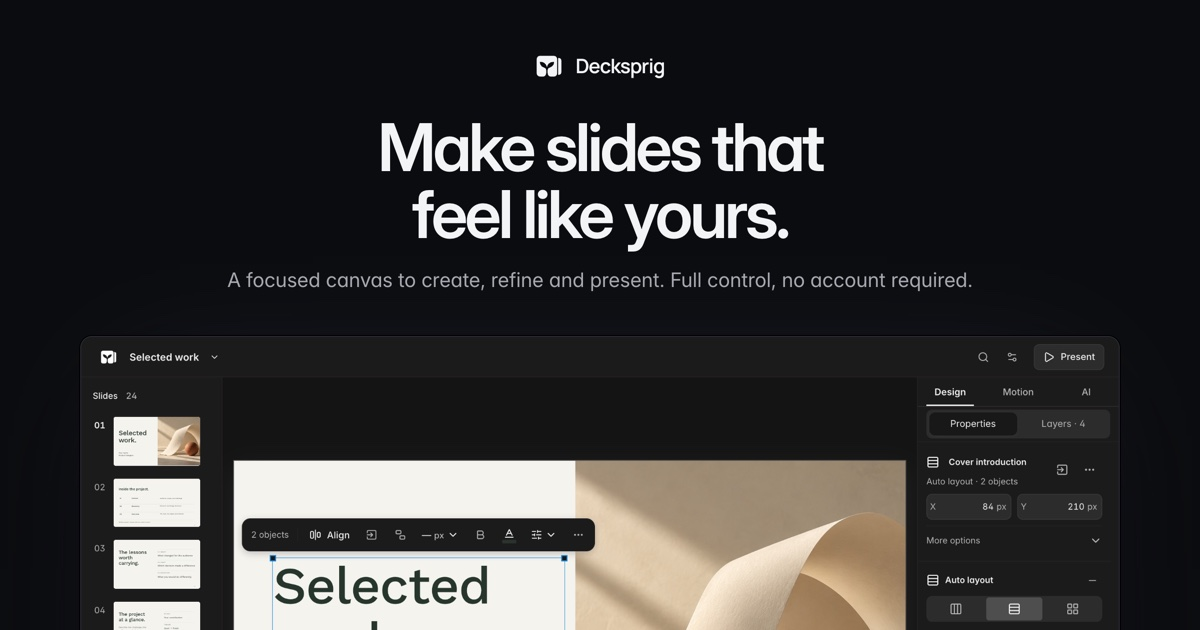
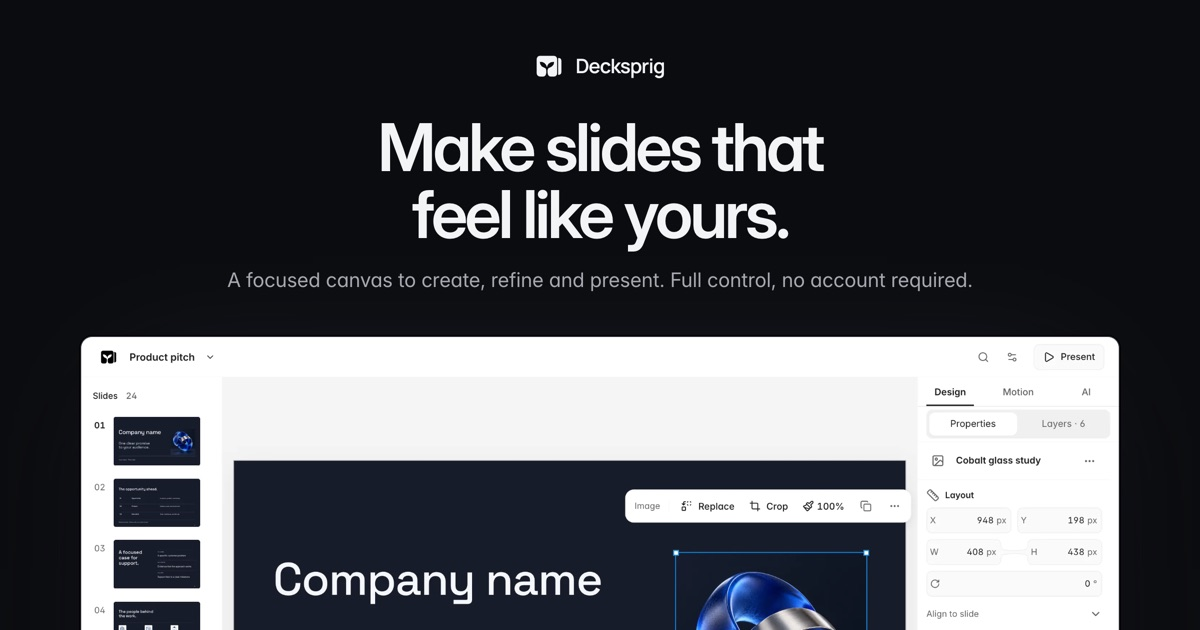
Website: open templates directly, art-directed hero and feature close-ups
- Use template opens /app?template=<id> as a new document; Download is secondary
- Hero focuses on one slide with a compact selection toolbar; dedicated mobile crop
- Workspace shows three close-ups: canvas editing, auto layout, editable charts
- Title, description and share card follow the new positioning

diff --git a/public/website/index.html b/public/website/index.html
@@ -3,14 +3,14 @@
 <head>
   <meta charset="utf-8">
   <meta name="viewport" content="width=device-width,initial-scale=1">
-  <title>Decksprig — Give your ideas a clearer story</title>
-  <meta name="description" content="A browser slide editor for portfolios, project reviews and design proposals. Shape your story, review AI changes, and present with confidence.">
+  <title>Decksprig — Make slides that feel like yours</title>
+  <meta name="description" content="Make slides that feel like yours. A focused browser editor to create, refine and present, with complete editable templates and no account required.">
   <meta name="theme-color" content="#0b0c0f">
   <script src="appearance.js?v=20261105-graphite"></script>
   <link rel="canonical" href="https://decksprig.kens-toolbox.com/">
   <meta property="og:type" content="website">
-  <meta property="og:title" content="Decksprig — Give your ideas a clearer story">
-  <meta property="og:description" content="A browser slide editor for portfolios, project reviews and design proposals. Start without an account; export an editable deck when you’re ready.">
+  <meta property="og:title" content="Decksprig — Make slides that feel like yours">
+  <meta property="og:description" content="Make slides that feel like yours. A focused browser editor to create, refine and present, with complete editable templates and no account required.">
   <meta property="og:url" content="https://decksprig.kens-toolbox.com/">
   <meta property="og:image" content="https://decksprig.kens-toolbox.com/assets/social.jpg?v=20261105-graphite">
   <meta name="twitter:card" content="summary_large_image">
@@ -65,34 +65,30 @@
         <ul class="hero-facts entrance" aria-label="At a glance"><li>Open source</li><li>No account</li><li>Editable export</li></ul>
       </div>
       <figure class="hero-stage entrance">
-        <div class="stage-window"><picture><source type="image/webp" srcset="assets/hero-editor-960.webp?v=20261105-graphite 960w, assets/hero-editor.webp?v=20261105-graphite 1440w, assets/hero-editor-2x.webp?v=20261105-graphite 2880w" sizes="(max-width: 760px) calc((100vw - 32px) * 1.6), (min-width: 1300px) 1200px, calc(100vw - 2 * clamp(20px, 4vw, 56px))"><img src="assets/hero-editor.jpg?v=20261105-graphite" srcset="assets/hero-editor.jpg?v=20261105-graphite 1440w, assets/hero-editor-2x.jpg?v=20261105-graphite 2880w" sizes="(max-width: 760px) calc((100vw - 32px) * 1.6), (min-width: 1300px) 1200px, calc(100vw - 2 * clamp(20px, 4vw, 56px))" width="1440" height="900" fetchpriority="high" alt="The Decksprig editor with a cover slide selected. The canvas shows a contextual toolbar; the inspector shows auto layout, size and spacing controls."></picture></div>
+        <div class="stage-window"><picture><source media="(max-width: 760px)" type="image/webp" srcset="assets/hero-mobile-800.webp?v=20261105-graphite 800w, assets/hero-mobile.webp?v=20261105-graphite 1200w" sizes="calc(100vw - 32px)"><source media="(max-width: 760px)" srcset="assets/hero-mobile.jpg?v=20261105-graphite 1200w" sizes="calc(100vw - 32px)"><source type="image/webp" srcset="assets/hero-editor-960.webp?v=20261105-graphite 960w, assets/hero-editor.webp?v=20261105-graphite 1440w, assets/hero-editor-2x.webp?v=20261105-graphite 2880w" sizes="(min-width: 1300px) 1200px, calc(100vw - 2 * clamp(20px, 4vw, 56px))"><img src="assets/hero-editor.jpg?v=20261105-graphite" srcset="assets/hero-editor.jpg?v=20261105-graphite 1440w, assets/hero-editor-2x.jpg?v=20261105-graphite 2880w" sizes="(min-width: 1300px) 1200px, calc(100vw - 2 * clamp(20px, 4vw, 56px))" width="1440" height="900" fetchpriority="high" alt="The Decksprig editor with a product pitch cover open. An image is selected, with a compact image toolbar on the canvas and its layout and image settings in the inspector."></picture></div>
       </figure>
     </section>
 
     <section class="section workspace reveal" id="workspace" aria-labelledby="workspace-title">
       <div class="section-heading"><div><p class="eyebrow"><span>01</span>The workspace</p><h2 id="workspace-title">All the tools.<br><span class="muted">None of the noise.</span></h2></div><p>Edit directly. Shape your layouts. Keep every detail under your control.</p></div>
-      <figure class="product-window">
-        <picture><source data-dark-shot media="(prefers-color-scheme: dark)" type="image/webp" srcset="assets/workspace-dark-960.webp?v=20261105-graphite 960w, assets/workspace-dark.webp?v=20261105-graphite 1440w, assets/workspace-dark-2x.webp?v=20261105-graphite 2880w" sizes="(max-width: 760px) calc((100vw - 40px) * 1.2), (min-width: 1300px) 1200px, calc(100vw - 2 * clamp(20px, 4vw, 56px))"><source data-dark-shot media="(prefers-color-scheme: dark)" srcset="assets/workspace-dark.jpg?v=20261105-graphite 1440w, assets/workspace-dark-2x.jpg?v=20261105-graphite 2880w" sizes="(max-width: 760px) calc((100vw - 40px) * 1.2), (min-width: 1300px) 1200px, calc(100vw - 2 * clamp(20px, 4vw, 56px))"><source type="image/webp" srcset="assets/workspace-light-960.webp?v=20261105-graphite 960w, assets/workspace-light.webp?v=20261105-graphite 1440w, assets/workspace-light-2x.webp?v=20261105-graphite 2880w" sizes="(max-width: 760px) calc((100vw - 40px) * 1.2), (min-width: 1300px) 1200px, calc(100vw - 2 * clamp(20px, 4vw, 56px))"><img id="editor-shot" src="assets/workspace-light.jpg?v=20261105-graphite" srcset="assets/workspace-light.jpg?v=20261105-graphite 1440w, assets/workspace-light-2x.jpg?v=20261105-graphite 2880w" sizes="(max-width: 760px) calc((100vw - 40px) * 1.2), (min-width: 1300px) 1200px, calc(100vw - 2 * clamp(20px, 4vw, 56px))" width="1440" height="900" loading="lazy" alt="A chart selected in the Decksprig editor, with layout, chart style, data and appearance controls in the inspector."></picture>
-      </figure>
-      <div class="capabilities">
-        <article><h3>Edit on the canvas</h3><p>Select, type and arrange in place. Tools appear for what you select, and stay out of the way otherwise.</p></article>
-        <article><h3>Layouts that hold</h3><p>Auto layout keeps spacing, alignment and text limits consistent as your content changes.</p></article>
-        <article><h3>Data that stays editable</h3><p>Charts and tables keep their values, labels and styles, all adjustable in one panel.</p></article>
-        <article><h3>Ready to present</h3><p>Pace your reveals, add transitions and present full screen, right from the browser.</p></article>
+      <div class="features">
+        <article class="feature"><figure><picture><source type="image/webp" srcset="assets/feature-text-600.webp?v=20261105-graphite 600w, assets/feature-text.webp?v=20261105-graphite 900w" sizes="(min-width: 1001px) 384px, (min-width: 761px) calc((100vw - 2 * clamp(20px, 4vw, 56px) - 48px) / 3), calc(100vw - 40px)"><img src="assets/feature-text.jpg?v=20261105-graphite" width="900" height="675" loading="lazy" alt="A slide heading being edited in place, with font size, color and Done controls in a toolbar above it."></picture></figure><h3>Edit on the canvas</h3><p>Select, type and arrange in place. A compact toolbar appears for what you edit, and steps aside when you are done.</p></article>
+        <article class="feature"><figure><picture><source type="image/webp" srcset="assets/feature-layout-600.webp?v=20261105-graphite 600w, assets/feature-layout.webp?v=20261105-graphite 900w" sizes="(min-width: 1001px) 384px, (min-width: 761px) calc((100vw - 2 * clamp(20px, 4vw, 56px) - 48px) / 3), calc(100vw - 40px)"><img src="assets/feature-layout.jpg?v=20261105-graphite" width="900" height="675" loading="lazy" alt="Auto layout settings in the inspector: direction, alignment, distribution and hug or fixed sizing."></picture></figure><h3>Layouts that hold</h3><p>Auto layout keeps spacing, alignment and text limits consistent as your content changes.</p></article>
+        <article class="feature"><figure><picture><source type="image/webp" srcset="assets/feature-chart-600.webp?v=20261105-graphite 600w, assets/feature-chart.webp?v=20261105-graphite 900w" sizes="(min-width: 1001px) 384px, (min-width: 761px) calc((100vw - 2 * clamp(20px, 4vw, 56px) - 48px) / 3), calc(100vw - 40px)"><img src="assets/feature-chart.jpg?v=20261105-graphite" width="900" height="675" loading="lazy" alt="A selected area chart beside its inspector, with Clean, Report, Bold and Minimal styles and Data and Customize controls."></picture></figure><h3>Data that stays editable</h3><p>Charts keep their values, labels and styles. Switch a style or open the data in one panel.</p></article>
       </div>
     </section>
 
     <section class="section templates reveal" id="templates" aria-labelledby="templates-title">
       <div class="section-heading"><div><p class="eyebrow"><span>02</span>Templates</p><h2 id="templates-title">Six complete decks.<br><span class="muted">Start from any of them.</span></h2></div><p>Each has 24 slides, with text, charts, tables and layouts you can change.</p></div>
       <ul class="template-grid">
-        <li class="template-card"><figure><picture><source type="image/webp" srcset="assets/portfolio-640.webp?v=20261105-graphite 640w, assets/portfolio.webp?v=20261105-graphite 1044w" sizes="(min-width: 1001px) 384px, (min-width: 761px) calc((100vw - 2 * clamp(20px, 4vw, 56px) - 20px) / 2), calc(100vw - 2 * clamp(20px, 4vw, 56px))"><img src="assets/portfolio.jpg?v=20261105-graphite" width="1044" height="588" loading="lazy" alt="Portfolio cover: “Selected work.” beside a paper sculpture photograph."></picture></figure><div class="template-meta"><div><h3>Portfolio</h3><p>Editorial · Context, research, craft and reflection</p></div><a class="template-download" href="assets/editorial.deck.json?v=20261105-graphite" download aria-label="Download the Portfolio starter deck"><svg class="ic" aria-hidden="true"><use href="#download"/></svg><span>Starter deck</span></a></div></li>
-        <li class="template-card"><figure><picture><source type="image/webp" srcset="assets/review-640.webp?v=20261105-graphite 640w, assets/review.webp?v=20261105-graphite 1044w" sizes="(min-width: 1001px) 384px, (min-width: 761px) calc((100vw - 2 * clamp(20px, 4vw, 56px) - 20px) / 2), calc(100vw - 2 * clamp(20px, 4vw, 56px))"><img src="assets/review.jpg?v=20261105-graphite" width="1044" height="588" loading="lazy" alt="Project review cover with a line illustration of two people reviewing work."></picture></figure><div class="template-meta"><div><h3>Project review</h3><p>Studio · Evidence, options and decisions</p></div><a class="template-download" href="assets/studio.deck.json?v=20261105-graphite" download aria-label="Download the Project review starter deck"><svg class="ic" aria-hidden="true"><use href="#download"/></svg><span>Starter deck</span></a></div></li>
-        <li class="template-card"><figure><picture><source type="image/webp" srcset="assets/minimal-640.webp?v=20261105-graphite 640w, assets/minimal.webp?v=20261105-graphite 1044w" sizes="(min-width: 1001px) 384px, (min-width: 761px) calc((100vw - 2 * clamp(20px, 4vw, 56px) - 20px) / 2), calc(100vw - 2 * clamp(20px, 4vw, 56px))"><img src="assets/minimal.jpg?v=20261105-graphite" width="1044" height="588" loading="lazy" alt="Minimalist cover: “A clear idea.” with a black ring sculpture."></picture></figure><div class="template-meta"><div><h3>Minimalist</h3><p>Minimalist · Space, structure and only what matters</p></div><a class="template-download" href="assets/minimalist.deck.json?v=20261105-graphite" download aria-label="Download the Minimalist starter deck"><svg class="ic" aria-hidden="true"><use href="#download"/></svg><span>Starter deck</span></a></div></li>
-        <li class="template-card"><figure><picture><source type="image/webp" srcset="assets/proposal-640.webp?v=20261105-graphite 640w, assets/proposal.webp?v=20261105-graphite 1044w" sizes="(min-width: 1001px) 384px, (min-width: 761px) calc((100vw - 2 * clamp(20px, 4vw, 56px) - 20px) / 2), calc(100vw - 2 * clamp(20px, 4vw, 56px))"><img src="assets/proposal.jpg?v=20261105-graphite" width="1044" height="588" loading="lazy" alt="Design proposal cover: “A clear point of view.” with a material study photograph."></picture></figure><div class="template-meta"><div><h3>Design proposal</h3><p>Monograph · Direction, scope, rationale and delivery</p></div><a class="template-download" href="assets/monograph.deck.json?v=20261105-graphite" download aria-label="Download the Design proposal starter deck"><svg class="ic" aria-hidden="true"><use href="#download"/></svg><span>Starter deck</span></a></div></li>
-        <li class="template-card"><figure><picture><source type="image/webp" srcset="assets/pitch-640.webp?v=20261105-graphite 640w, assets/pitch.webp?v=20261105-graphite 1044w" sizes="(min-width: 1001px) 384px, (min-width: 761px) calc((100vw - 2 * clamp(20px, 4vw, 56px) - 20px) / 2), calc(100vw - 2 * clamp(20px, 4vw, 56px))"><img src="assets/pitch.jpg?v=20261105-graphite" width="1044" height="588" loading="lazy" alt="Product pitch cover on a dark canvas with cobalt glass artwork."></picture></figure><div class="template-meta"><div><h3>Product pitch</h3><p>Signal · Problem, product, traction and the ask</p></div><a class="template-download" href="assets/signal.deck.json?v=20261105-graphite" download aria-label="Download the Product pitch starter deck"><svg class="ic" aria-hidden="true"><use href="#download"/></svg><span>Starter deck</span></a></div></li>
-        <li class="template-card"><figure><picture><source type="image/webp" srcset="assets/report-640.webp?v=20261105-graphite 640w, assets/report.webp?v=20261105-graphite 1044w" sizes="(min-width: 1001px) 384px, (min-width: 761px) calc((100vw - 2 * clamp(20px, 4vw, 56px) - 20px) / 2), calc(100vw - 2 * clamp(20px, 4vw, 56px))"><img src="assets/report.jpg?v=20261105-graphite" width="1044" height="588" loading="lazy" alt="Data report cover: “Quarterly report.” with an open notebook photograph."></picture></figure><div class="template-meta"><div><h3>Data report</h3><p>Ledger · Results, comparisons and priorities</p></div><a class="template-download" href="assets/ledger.deck.json?v=20261105-graphite" download aria-label="Download the Data report starter deck"><svg class="ic" aria-hidden="true"><use href="#download"/></svg><span>Starter deck</span></a></div></li>
+        <li class="template-card"><figure><picture><source type="image/webp" srcset="assets/portfolio-640.webp?v=20261105-graphite 640w, assets/portfolio.webp?v=20261105-graphite 1044w" sizes="(min-width: 1001px) 384px, (min-width: 761px) calc((100vw - 2 * clamp(20px, 4vw, 56px) - 20px) / 2), calc(100vw - 2 * clamp(20px, 4vw, 56px))"><img src="assets/portfolio.jpg?v=20261105-graphite" width="1044" height="588" loading="lazy" alt="Portfolio cover: “Selected work.” beside a paper sculpture photograph."></picture></figure><div class="template-meta"><div><h3>Portfolio</h3><p>Editorial · Context, research, craft and reflection</p></div></div><div class="template-actions"><a class="template-use" href="/app?template=portfolio" target="_blank" rel="noopener noreferrer" aria-label="Use template: Portfolio">Use template<svg class="ic" aria-hidden="true"><use href="#arrow"/></svg></a><a class="template-download" href="assets/editorial.deck.json?v=20261105-graphite" download aria-label="Download the Portfolio starter deck"><svg class="ic" aria-hidden="true"><use href="#download"/></svg>Download</a></div></li>
+        <li class="template-card"><figure><picture><source type="image/webp" srcset="assets/review-640.webp?v=20261105-graphite 640w, assets/review.webp?v=20261105-graphite 1044w" sizes="(min-width: 1001px) 384px, (min-width: 761px) calc((100vw - 2 * clamp(20px, 4vw, 56px) - 20px) / 2), calc(100vw - 2 * clamp(20px, 4vw, 56px))"><img src="assets/review.jpg?v=20261105-graphite" width="1044" height="588" loading="lazy" alt="Project review cover with a line illustration of two people reviewing work."></picture></figure><div class="template-meta"><div><h3>Project review</h3><p>Studio · Evidence, options and decisions</p></div></div><div class="template-actions"><a class="template-use" href="/app?template=review" target="_blank" rel="noopener noreferrer" aria-label="Use template: Project review">Use template<svg class="ic" aria-hidden="true"><use href="#arrow"/></svg></a><a class="template-download" href="assets/studio.deck.json?v=20261105-graphite" download aria-label="Download the Project review starter deck"><svg class="ic" aria-hidden="true"><use href="#download"/></svg>Download</a></div></li>
+        <li class="template-card"><figure><picture><source type="image/webp" srcset="assets/minimal-640.webp?v=20261105-graphite 640w, assets/minimal.webp?v=20261105-graphite 1044w" sizes="(min-width: 1001px) 384px, (min-width: 761px) calc((100vw - 2 * clamp(20px, 4vw, 56px) - 20px) / 2), calc(100vw - 2 * clamp(20px, 4vw, 56px))"><img src="assets/minimal.jpg?v=20261105-graphite" width="1044" height="588" loading="lazy" alt="Minimalist cover: “A clear idea.” with a black ring sculpture."></picture></figure><div class="template-meta"><div><h3>Minimalist</h3><p>Minimalist · Space, structure and only what matters</p></div></div><div class="template-actions"><a class="template-use" href="/app?template=minimal" target="_blank" rel="noopener noreferrer" aria-label="Use template: Minimalist">Use template<svg class="ic" aria-hidden="true"><use href="#arrow"/></svg></a><a class="template-download" href="assets/minimalist.deck.json?v=20261105-graphite" download aria-label="Download the Minimalist starter deck"><svg class="ic" aria-hidden="true"><use href="#download"/></svg>Download</a></div></li>
+        <li class="template-card"><figure><picture><source type="image/webp" srcset="assets/proposal-640.webp?v=20261105-graphite 640w, assets/proposal.webp?v=20261105-graphite 1044w" sizes="(min-width: 1001px) 384px, (min-width: 761px) calc((100vw - 2 * clamp(20px, 4vw, 56px) - 20px) / 2), calc(100vw - 2 * clamp(20px, 4vw, 56px))"><img src="assets/proposal.jpg?v=20261105-graphite" width="1044" height="588" loading="lazy" alt="Design proposal cover: “A clear point of view.” with a material study photograph."></picture></figure><div class="template-meta"><div><h3>Design proposal</h3><p>Monograph · Direction, scope, rationale and delivery</p></div></div><div class="template-actions"><a class="template-use" href="/app?template=proposal" target="_blank" rel="noopener noreferrer" aria-label="Use template: Design proposal">Use template<svg class="ic" aria-hidden="true"><use href="#arrow"/></svg></a><a class="template-download" href="assets/monograph.deck.json?v=20261105-graphite" download aria-label="Download the Design proposal starter deck"><svg class="ic" aria-hidden="true"><use href="#download"/></svg>Download</a></div></li>
+        <li class="template-card"><figure><picture><source type="image/webp" srcset="assets/pitch-640.webp?v=20261105-graphite 640w, assets/pitch.webp?v=20261105-graphite 1044w" sizes="(min-width: 1001px) 384px, (min-width: 761px) calc((100vw - 2 * clamp(20px, 4vw, 56px) - 20px) / 2), calc(100vw - 2 * clamp(20px, 4vw, 56px))"><img src="assets/pitch.jpg?v=20261105-graphite" width="1044" height="588" loading="lazy" alt="Product pitch cover on a dark canvas with cobalt glass artwork."></picture></figure><div class="template-meta"><div><h3>Product pitch</h3><p>Signal · Problem, product, traction and the ask</p></div></div><div class="template-actions"><a class="template-use" href="/app?template=pitch" target="_blank" rel="noopener noreferrer" aria-label="Use template: Product pitch">Use template<svg class="ic" aria-hidden="true"><use href="#arrow"/></svg></a><a class="template-download" href="assets/signal.deck.json?v=20261105-graphite" download aria-label="Download the Product pitch starter deck"><svg class="ic" aria-hidden="true"><use href="#download"/></svg>Download</a></div></li>
+        <li class="template-card"><figure><picture><source type="image/webp" srcset="assets/report-640.webp?v=20261105-graphite 640w, assets/report.webp?v=20261105-graphite 1044w" sizes="(min-width: 1001px) 384px, (min-width: 761px) calc((100vw - 2 * clamp(20px, 4vw, 56px) - 20px) / 2), calc(100vw - 2 * clamp(20px, 4vw, 56px))"><img src="assets/report.jpg?v=20261105-graphite" width="1044" height="588" loading="lazy" alt="Data report cover: “Quarterly report.” with an open notebook photograph."></picture></figure><div class="template-meta"><div><h3>Data report</h3><p>Ledger · Results, comparisons and priorities</p></div></div><div class="template-actions"><a class="template-use" href="/app?template=report" target="_blank" rel="noopener noreferrer" aria-label="Use template: Data report">Use template<svg class="ic" aria-hidden="true"><use href="#arrow"/></svg></a><a class="template-download" href="assets/ledger.deck.json?v=20261105-graphite" download aria-label="Download the Data report starter deck"><svg class="ic" aria-hidden="true"><use href="#download"/></svg>Download</a></div></li>
       </ul>
-      <p class="caption">To use a starter deck, open the editor’s document menu and choose Import. Artwork is original AI-generated material you can replace.</p>
+      <p class="caption">Use template opens a new document in the editor; your other documents stay as they are. Download keeps a Deck JSON copy you can import later. Artwork is original AI-generated material you can replace.</p>
     </section>
 
     <section class="section ai-section reveal" id="ai" aria-labelledby="ai-title">
@@ -119,7 +115,7 @@
         <details><summary>Can I use Decksprig on this website? <svg class="ic" aria-hidden="true"><use href="#chevron"/></svg></summary><p>Yes. Open Decksprig to create, edit and present immediately. Documents and history stay in this browser, with import and export for portable backups. No account is required.</p></details>
         <details><summary>Who is it for? <svg class="ic" aria-hidden="true"><use href="#chevron"/></svg></summary><p>Designers preparing portfolios, teams reviewing projects, and anyone shaping a design proposal. Desktop is the primary editing surface. Smaller screens support reading and direct content edits.</p></details>
         <details><summary>Do I have to use AI? <svg class="ic" aria-hidden="true"><use href="#chevron"/></svg></summary><p>No. Manual editing, templates and presentations work without AI. If you connect a service, review proposals before applying them. Your chosen provider may charge for usage.</p></details>
-        <details><summary>How do I use a starter deck? <svg class="ic" aria-hidden="true"><use href="#chevron"/></svg></summary><p>Download a starter from the Templates section. In Decksprig, open the document menu, choose Import, and select the .deck.json file. Replace the sample content with your own work.</p></details>
+        <details><summary>How do I use a starter deck? <svg class="ic" aria-hidden="true"><use href="#chevron"/></svg></summary><p>Choose Use template on any cover in the Templates section. Decksprig opens a new document from it, and your other documents stay as they are. To keep a file, choose Download, then import the .deck.json file from the editor’s document menu.</p></details>
         <details><summary>What can I export? <svg class="ic" aria-hidden="true"><use href="#chevron"/></svg></summary><p>Save an editable Deck JSON file, a PowerPoint presentation, or a standalone HTML presentation. Exported PowerPoint files may need the corresponding fonts on the destination device. Native Keynote export requires Keynote on the local Mac.</p></details>
         <details><summary>How does this relate to Broadser? <svg class="ic" aria-hidden="true"><use href="#chevron"/></svg></summary><p>Both are tools by Ken Pan. Broadser brings research and sources together on a canvas. Decksprig helps turn your work into a presentation. Each has its own documents and workspace.</p></details>
       </div>

diff --git a/public/website/site.css b/public/website/site.css
@@ -42,14 +42,13 @@ a:focus-visible,button:focus-visible,summary:focus-visible,[tabindex]:focus-visi
 .section{max-width:calc(var(--width) + 2*var(--gutter));margin:auto;padding:clamp(88px,11vw,136px) var(--gutter)}
 .section+.section{border-top:1px solid var(--line)}
 .section-heading{display:grid;grid-template-columns:minmax(0,1.6fr) minmax(240px,1fr);gap:64px;align-items:end;margin-bottom:56px}.section-heading>*{min-width:0}.section-heading>p{max-width:360px;padding-bottom:6px;color:var(--text);font-size:1.0625rem;line-height:1.6}
-.product-window{overflow:hidden;border:1px solid var(--line);border-radius:12px;background:var(--paper);box-shadow:var(--window-shadow)}.product-window img{width:100%;height:auto;aspect-ratio:16/10}
-.capabilities{display:grid;grid-template-columns:repeat(4,minmax(0,1fr));gap:32px;margin-top:56px}.capabilities article{padding-top:20px;border-top:1px solid var(--line-strong)}.capabilities h3{margin-bottom:8px}.capabilities p{color:var(--text);font-size:.9375rem;line-height:1.6}
+.features{display:grid;grid-template-columns:repeat(3,minmax(0,1fr));gap:24px}.feature figure{overflow:hidden;margin-bottom:22px;border:1px solid var(--line);border-radius:12px;background:var(--paper);box-shadow:var(--window-shadow)}.feature img{width:100%;height:auto;aspect-ratio:4/3}.feature h3{margin-bottom:8px}.feature p{max-width:340px;color:var(--text);font-size:.9375rem;line-height:1.6}
 
 /* Templates: a browsable gallery of real covers. */
 .template-grid{display:grid;grid-template-columns:repeat(3,minmax(0,1fr));gap:40px 24px;list-style:none;margin:0;padding:0}
 .template-card figure{overflow:hidden;border:1px solid var(--line);border-radius:8px;background:var(--band)}.template-card img{width:100%;height:auto;aspect-ratio:16/9;object-fit:cover;transition:transform .35s var(--ease)}
-.template-meta{display:flex;flex-wrap:wrap;justify-content:space-between;align-items:flex-start;gap:0 16px;margin-top:14px}.template-meta>div{flex:1 1 180px;min-width:0}.template-meta p{margin-top:2px;color:var(--text);font-size:.875rem;line-height:1.5}
-.template-download{display:inline-flex;align-items:center;gap:6px;flex:none;min-height:44px;margin-top:-10px;padding:0 4px;color:var(--text);font-size:.8125rem;font-weight:500;text-decoration:none;white-space:nowrap;transition:color .18s}.template-download .ic{width:16px;height:16px}
+.template-card{position:relative}.template-meta{margin-top:14px}.template-meta p{margin-top:2px;color:var(--text);font-size:.875rem;line-height:1.5}.template-actions{display:flex;flex-wrap:wrap;align-items:center;gap:0 20px;margin-top:4px}.template-use{display:inline-flex;align-items:center;gap:6px;min-height:44px;color:var(--ink);font-size:.875rem;font-weight:600;text-decoration:none}.template-use .ic{width:16px;height:16px;transition:transform .22s var(--ease)}.template-use:after{content:"";position:absolute;top:0;left:0;right:0;aspect-ratio:16/9;border-radius:8px}.template-use:focus-visible{outline:0}.template-use:focus-visible:after{outline:2px solid var(--focus);outline-offset:4px}
+.template-download{position:relative;display:inline-flex;align-items:center;gap:6px;min-height:44px;color:var(--text);font-size:.8125rem;font-weight:500;text-decoration:none;white-space:nowrap;transition:color .18s}.template-download .ic{width:16px;height:16px}
 .caption{margin-top:40px;color:var(--text);font-size:.875rem;line-height:1.7}
 
 /* AI */
@@ -67,7 +66,7 @@ a:focus-visible,button:focus-visible,summary:focus-visible,[tabindex]:focus-visi
 .export-formats{display:flex;align-items:baseline;flex-wrap:wrap;gap:36px;margin:8px 0 40px;font-size:clamp(1.375rem,2.5vw,2rem);font-weight:600;line-height:1.3;letter-spacing:-.03em}.export-formats span+span{padding-left:36px;border-left:1px solid var(--line-strong)}
 .ownership .section-heading{margin-bottom:40px}.ownership-grid{display:grid;grid-template-columns:repeat(3,1fr);gap:32px}.ownership-grid article{padding-top:20px;border-top:1px solid var(--line-strong)}.ownership-grid h3{margin-bottom:8px}.ownership-grid p{max-width:320px;color:var(--text);font-size:.9375rem;line-height:1.6}
 .conversion-note{margin-top:40px;padding-top:12px;border-top:1px solid var(--line);color:var(--text);font-size:.9375rem}.conversion-note summary{display:flex;justify-content:space-between;align-items:center;gap:20px;max-width:420px;min-height:44px;cursor:pointer;font-weight:550;color:var(--ink)}.conversion-note p{max-width:760px;margin:12px 0 0;line-height:1.8}
-.faq-section{display:grid;grid-template-columns:1fr 1.45fr;gap:96px}.faq-guide{display:grid;justify-items:start;gap:2px;max-width:400px;margin-top:32px;padding-top:20px;border-top:1px solid var(--line-strong)}.faq-guide>span{font:500 .6875rem/1.5 var(--mono);letter-spacing:.08em;text-transform:uppercase;color:var(--muted)}.guide-link{display:block;padding:11px 0;font-size:.9375rem;font-weight:550;line-height:1.4;text-decoration:underline;text-decoration-color:var(--line-strong);text-underline-offset:5px;transition:color .18s,text-decoration-color .18s}.questions details{border-bottom:1px solid var(--line)}.questions details:first-child{border-top:1px solid var(--line)}.questions summary{display:flex;align-items:center;justify-content:space-between;gap:22px;min-height:68px;padding:16px 0;list-style:none;cursor:pointer;font-size:.9375rem;font-weight:550}.questions details p{max-width:540px;padding-bottom:24px;color:var(--text);font-size:.9375rem;line-height:1.75}
+.faq-section{display:grid;grid-template-columns:1fr 1.45fr;gap:96px}.faq-guide{display:grid;justify-items:start;gap:2px;max-width:400px;margin-top:32px;padding-top:20px;border-top:1px solid var(--line-strong)}.faq-guide>span{font:500 .6875rem/1.5 var(--mono);letter-spacing:.08em;text-transform:uppercase;color:var(--muted)}.guide-link{display:block;padding:12px 0;font-size:.9375rem;font-weight:550;line-height:1.4;text-decoration:underline;text-decoration-color:var(--line-strong);text-underline-offset:5px;transition:color .18s,text-decoration-color .18s}.questions details{border-bottom:1px solid var(--line)}.questions details:first-child{border-top:1px solid var(--line)}.questions summary{display:flex;align-items:center;justify-content:space-between;gap:22px;min-height:68px;padding:16px 0;list-style:none;cursor:pointer;font-size:.9375rem;font-weight:550}.questions details p{max-width:540px;padding-bottom:24px;color:var(--text);font-size:.9375rem;line-height:1.75}
 summary::-webkit-details-marker{display:none}summary .ic{width:18px;height:18px;color:var(--muted);transition:transform .2s var(--ease)}details[open]>summary .ic{transform:rotate(180deg)}
 
 /* Closing */
@@ -92,12 +91,12 @@ summary::-webkit-details-marker{display:none}summary .ic{width:18px;height:18px;
 @media(hover:hover) and (pointer:fine){
  .nav nav a:hover,.nav-github:hover,.header-pref-trigger:hover{color:var(--ink)}.icon-button:hover{background:var(--hover)}
  .button.primary:hover{background:color-mix(in srgb,var(--ink) 86%,var(--page))}.button.secondary:hover{background:var(--hover);border-color:var(--muted)}
- .template-download:hover,.questions summary:hover,.conversion-note summary:hover,.guide-link:hover{color:var(--accent)}.guide-link:hover{text-decoration-color:currentColor}
+ .template-use:hover,.template-download:hover,.questions summary:hover,.conversion-note summary:hover,.guide-link:hover{color:var(--accent)}.guide-link:hover{text-decoration-color:currentColor}
  .github-link:not(.button):hover{text-decoration:underline;text-underline-offset:4px}
 }
-@media(hover:hover) and (pointer:fine) and (prefers-reduced-motion:no-preference){.button:hover .ic:last-child{transform:translateX(3px)}.template-card:hover img{transform:scale(1.015)}}
+@media(hover:hover) and (pointer:fine) and (prefers-reduced-motion:no-preference){.button:hover .ic:last-child{transform:translateX(3px)}.template-card:has(.template-use:hover) img{transform:scale(1.015)}.template-use:hover .ic{transform:translateX(3px)}}
 
-@media(max-width:1000px){.section-heading{gap:40px}.capabilities{grid-template-columns:repeat(2,minmax(0,1fr));gap:32px 24px}.ai-section{gap:48px}.faq-section{gap:48px}.template-grid{grid-template-columns:repeat(2,minmax(0,1fr));gap:36px 20px}}
+@media(max-width:1000px){.section-heading{gap:40px}.features{gap:20px}.ai-section{gap:48px}.faq-section{gap:48px}.template-grid{grid-template-columns:repeat(2,minmax(0,1fr));gap:36px 20px}}
 @media(max-width:900px){
  .nav-inner{gap:12px}.menu-toggle{display:grid}.nav .nav-github{display:none}
  .nav[data-menu-ready] nav{display:none;position:absolute;top:100%;left:0;right:0;background:var(--page);border-bottom:1px solid var(--line)}
@@ -109,11 +108,8 @@ summary::-webkit-details-marker{display:none}summary .ic{width:18px;height:18px;
  html{scroll-padding-top:72px}.nav-inner{padding-inline:16px;gap:8px}.nav-actions{gap:0}.nav-actions .small{padding-inline:10px}.nav-actions .small .ic{display:none}
  .hero{padding-top:48px;padding-bottom:56px}.hero h1{font-size:clamp(2.375rem,10.5vw,3.25rem)}.lede{margin:18px auto 28px;font-size:1rem}.hero .actions{gap:10px}.hero-facts{gap:8px 18px;margin-top:24px}
  .hero-stage{width:calc(100% - 32px);margin-top:44px}.stage-window{border-radius:10px}
- /* Crop to the canvas and selection rather than shrinking the whole window. */
- .stage-window img{aspect-ratio:1/1;object-fit:cover;object-position:38% 50%}
  .section{padding-top:72px;padding-bottom:72px}.section-heading{grid-template-columns:1fr;gap:16px;margin-bottom:32px}.section-heading>p{font-size:1rem;max-width:520px}
- .product-window{border-radius:8px}.product-window img{aspect-ratio:4/3;object-fit:cover;object-position:100% 50%}
- .capabilities{grid-template-columns:1fr;gap:24px;margin-top:36px}
+ .features{grid-template-columns:1fr;gap:36px}.feature figure{margin-bottom:18px}
  .template-grid{grid-template-columns:1fr;gap:28px}
  .ai-section{grid-template-columns:1fr;gap:32px}.ai-illustration{padding:22px}.request-line p{font-size:1.125rem}.mini-slide{aspect-ratio:16/11}.mini-title,.mini-title.short{height:5px}.after .mini-title,.after .mini-title.short{height:4px}
  .export-formats{gap:12px 18px;font-size:1.375rem;margin-bottom:28px}.export-formats span+span{padding-left:0;border:0}.ownership-grid{grid-template-columns:1fr;gap:24px}
@@ -123,4 +119,4 @@ summary::-webkit-details-marker{display:none}summary .ic{width:18px;height:18px;
 @media(min-width:761px) and (max-height:820px){.hero{padding-top:56px}.hero h1{font-size:clamp(2.75rem,5vw,4.25rem)}.lede{margin:18px auto 28px}.hero-stage{margin-top:48px}}
 
 @media(prefers-reduced-motion:reduce){html{scroll-behavior:auto}*,*:before,*:after{animation:none!important;transition:none!important}.js-ready .reveal:not(.seen){opacity:1;transform:none}}
-@media(forced-colors:active){.tone-graphite,.nav[data-tone=hero],:root{--focus:Highlight}.brand-mark,.closing-mark{background:CanvasText}.button{border:1px solid ButtonText}.button.primary{background:ButtonFace;color:ButtonText}.stage-window,.product-window,.template-card figure{border:1px solid CanvasText}.hero-facts li:before{background:CanvasText}.github-mark{background:CanvasText;mask:url(assets/github-mark-black.svg) center/contain no-repeat}}
+@media(forced-colors:active){.tone-graphite,.nav[data-tone=hero],:root{--focus:Highlight}.brand-mark,.closing-mark{background:CanvasText}.button{border:1px solid ButtonText}.button.primary{background:ButtonFace;color:ButtonText}.stage-window,.feature figure,.template-card figure{border:1px solid CanvasText}.hero-facts li:before{background:CanvasText}.github-mark{background:CanvasText;mask:url(assets/github-mark-black.svg) center/contain no-repeat}}

diff --git a/src/App.svelte b/src/App.svelte
@@ -27,7 +27,7 @@
   import AsyncFeature from './components/LazyFeature.svelte';
   import SlideVisibilityNotice from './components/SlideVisibilityNotice.svelte';
   import { releaseLibraryPreviews, type LibraryDocument } from './core/document-library-view';
-  import { initializeWorkspace,workspaceEntryId,workspaceDocumentURL } from './core/workspace-startup';
+  import { initializeWorkspace,workspaceEntryId,workspaceDocumentURL,workspaceTemplateId } from './core/workspace-startup';
   import { flip } from 'svelte/animate';
   import { uiPresence, uiCollapse, uiChange, uiIndicator, uiCurrentSlide, uiFocus, reframeUI, reducedUI, setUIMotion, installUIMotion, type UIMotionPreference } from './ui-motion';
   import { ResourcesIcon, DocumentStylesIcon } from './components/icons/workspace-icons';
@@ -903,6 +903,20 @@
           const cleanURL = new URL(location.href); cleanURL.searchParams.delete('demo');
           history.replaceState(null, '', cleanURL.pathname + cleanURL.search + cleanURL.hash);
           if (!editor.deck && !disposed && !resourceLink.has('document')) await openDemo();
+        }
+        // Website template links create one new document through the same path as Templates.
+        if (resourceLink.has('template')) {
+          const linkSearch = '?' + resourceLink.toString();
+          const cleanURL = new URL(location.href); cleanURL.searchParams.delete('template');
+          history.replaceState(null, '', cleanURL.pathname + cleanURL.search + cleanURL.hash);
+          const {COLLECTIONS, templateDeck, embedTemplateArtwork} = await import('./core/templates');
+          const templateId = workspaceTemplateId(linkSearch, COLLECTIONS.map(c => c.id));
+          if (templateId && !editor.deck && !disposed) {
+            busy = 'Opening template…';
+            try { await create(await embedTemplateArtwork(templateDeck(templateId))); }
+            catch { error = 'The template could not open. Choose it from Templates.'; }
+            finally { busy = ''; }
+          }
         }
         if (!editor.deck || disposed || !['blue-black','characters','deck-graphics'].includes(linkedLibrary || '')) return;
         void tick().then(()=>resourcePanel?.show());

diff --git a/tests/loading-performance.test.ts b/tests/loading-performance.test.ts
@@ -5,7 +5,7 @@ import { tmpdir } from 'node:os';
 import { join } from 'node:path';
 import { createServer } from 'node:http';
 import { gzipSync } from 'node:zlib';
-import { initializeWorkspace,workspaceEntryId,workspaceDocumentURL } from '../src/core/workspace-startup';
+import { initializeWorkspace,workspaceEntryId,workspaceDocumentURL,workspaceTemplateId } from '../src/core/workspace-startup';
 import { slideFontFamilies } from '../src/core/font-loading';
 import { blankSlide, element, newDeck } from '../src/core/model';
 import { applyOperations } from '../src/core/operations';
@@ -19,6 +19,15 @@ test('default entry never restores a document, while document and resource links
   assert.equal(workspaceEntryId('?library=unknown', 'previous'), null);
   assert.equal(workspaceEntryId('?document=chosen&library=blue-black', 'previous'), 'chosen');
   assert.equal(workspaceDocumentURL('https://example.com/app?document=old&x=1#slide', 'doc:two'), '/app?document=doc%3Atwo&x=1#slide');
+});
+
+test('template links name a known collection and never replace an explicit document', () => {
+  const ids = ['portfolio', 'review'];
+  assert.equal(workspaceTemplateId('?template=review', ids), 'review');
+  assert.equal(workspaceTemplateId('?template=unknown', ids), null);
+  assert.equal(workspaceTemplateId('?template=', ids), null);
+  assert.equal(workspaceTemplateId('?template=review&document=chosen', ids), null);
+  assert.equal(workspaceTemplateId('', ids), null);
 });
 
 test('startup opens only an explicit document without listing the library', async () => {

diff --git a/src/core/workspace-startup.ts b/src/core/workspace-startup.ts
@@ -11,6 +11,13 @@ export function workspaceEntryId(search: string, previousId: string | null): str
   return ['blue-black', 'characters', 'deck-graphics'].includes(params.get('library') || '') ? previousId : null;
 }
 
+// A template link creates a new document; an explicit document link wins.
+export function workspaceTemplateId(search: string, templates: readonly string[]): string | null {
+  const params = new URLSearchParams(search);
+  const id = params.get('template');
+  return id && !params.has('document') && templates.includes(id) ? id : null;
+}
+
 export function workspaceDocumentURL(href: string, id: string): string {
   const url = new URL(href);
   url.searchParams.set('document', id);

diff --git a/public/website/site.js b/public/website/site.js
@@ -2,9 +2,7 @@
 (() => {
   const root = document.documentElement;
   function syncAppearance() {
-    const dark = root.dataset.theme === 'dark';
     root.classList.add('theme-changing');
-    for (const source of document.querySelectorAll('[data-dark-shot]')) source.media = dark ? 'all' : 'not all';
     requestAnimationFrame(() => requestAnimationFrame(() => root.classList.remove('theme-changing')));
   }
   syncAppearance();
